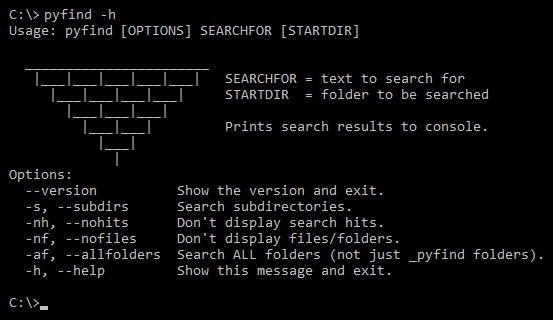
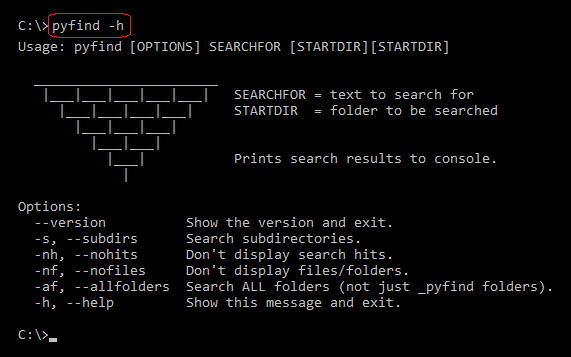
update screenshot

diff --git a/pyfind.py b/pyfind.py
@@ -29,8 +29,8 @@ def cli(searchfor, startdir, subdirs, nohits, nofiles, allfolders):
      |___|___|___|___|___|   SEARCHFOR = text to search for
        |___|___|___|___|     STARTDIR  = folder to be searched
          |___|___|___|
-           |___|___|         Prints search results to console.
-             |___|
+           |___|___|
+             |___|           Prints search results to console.
                |
     """
     get_matches(searchfor=searchfor, startdir=startdir, subdirs=subdirs,
